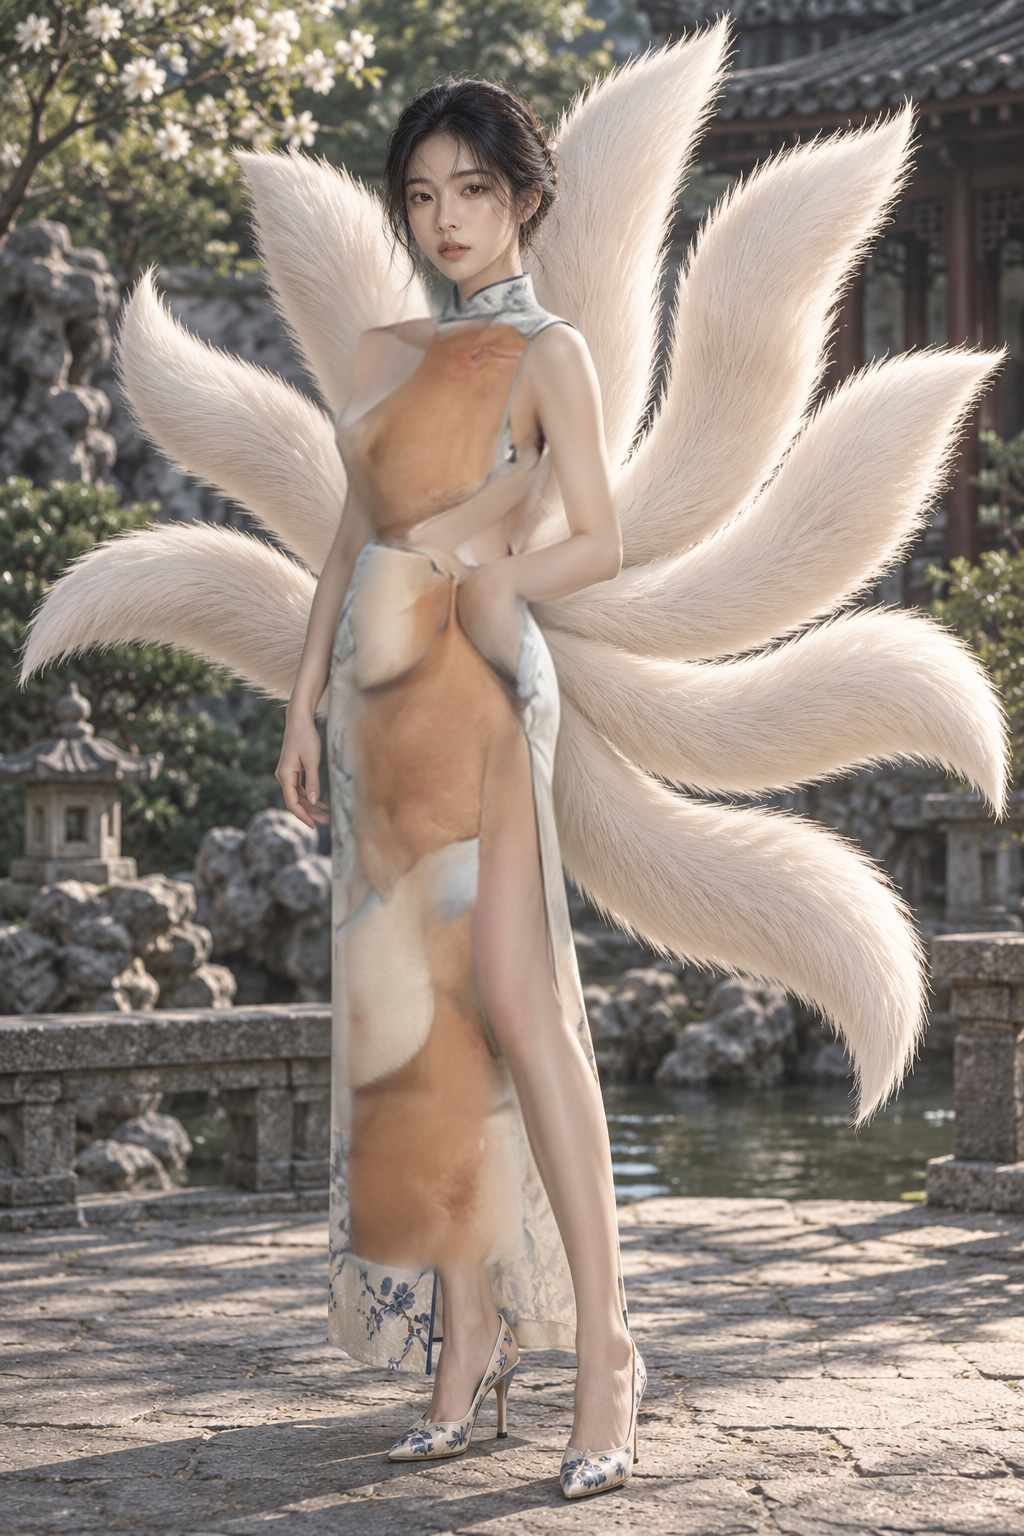
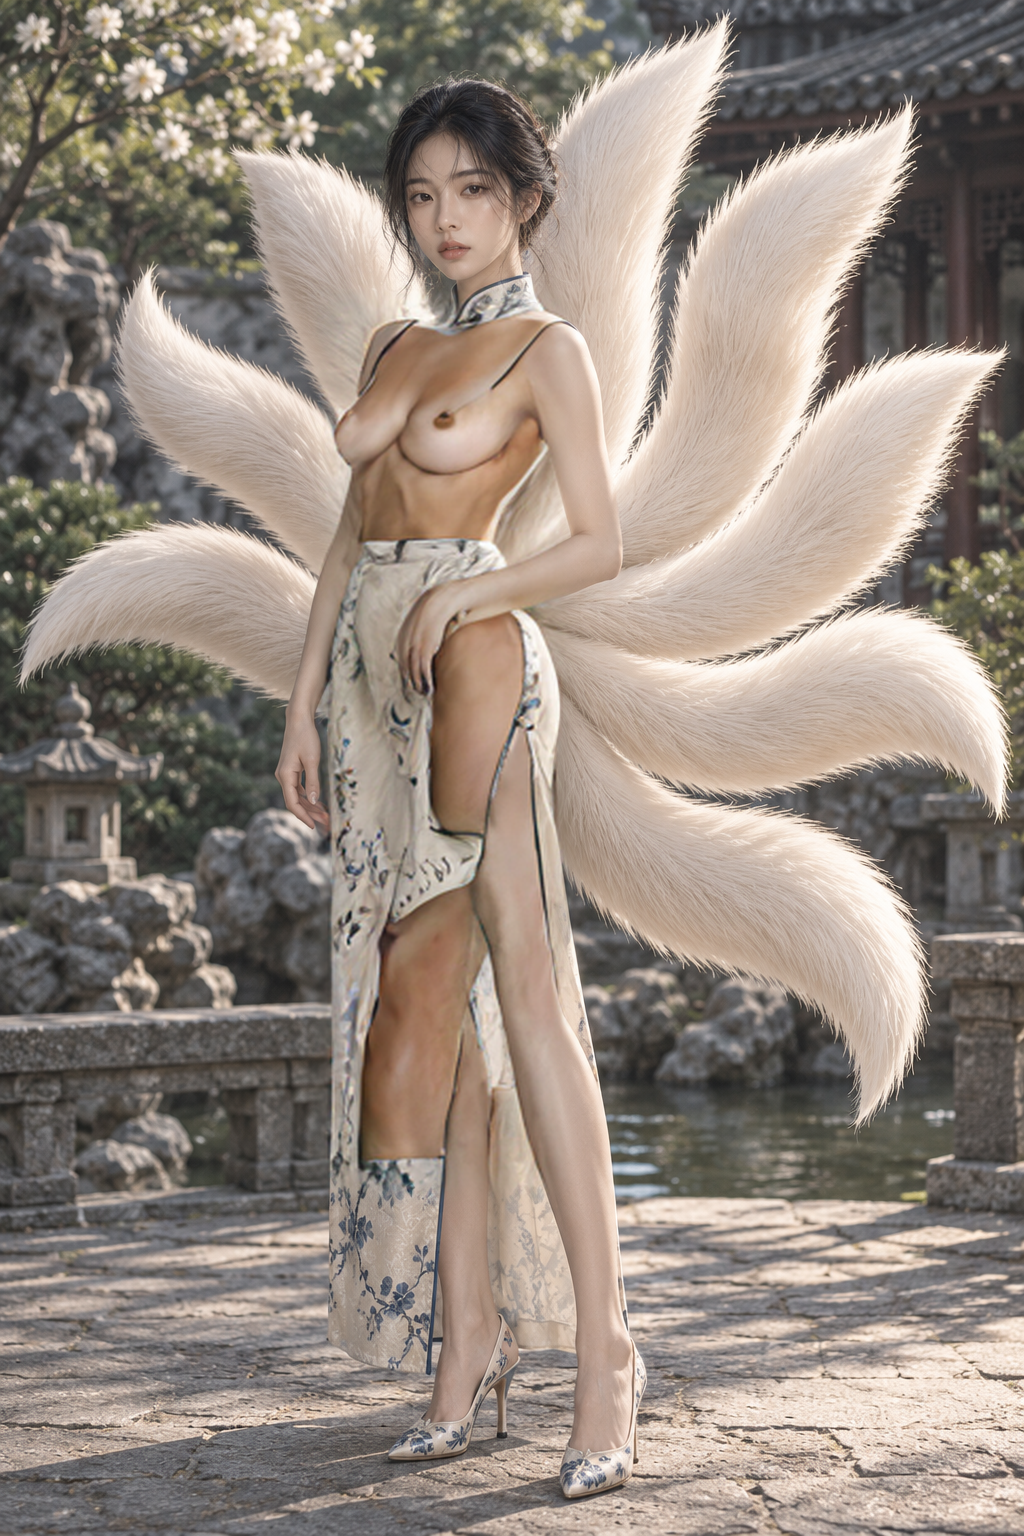
Rerun fox/centaur undress with Fooocus MaskedFill on Beijing.
Raise cloth denoise, neutralize masked pixels before IMC, and ship Codex
rescored stills; Lin torn stays near the gate, others still fail clothes/armor.

Changed region(s): [[0.3125, 0.1875, 0.5625, 0.8438], [0.5312, 0.5938, 0.5625, 0.6562]]

diff --git a/ai-realistic-comic/workflows/comfyui/inpaint_crop.py b/ai-realistic-comic/workflows/comfyui/inpaint_crop.py
@@ -26,6 +26,7 @@ FOOOCUS_HEAD = "fooocus_inpaint_head.pth"
 FOOOCUS_PATCH = "inpaint_v26.fooocus.patch"
 FOOOCUS_LOAD = "INPAINT_LoadFooocusInpaint"
 FOOOCUS_APPLY = "INPAINT_ApplyFooocusInpaint"
+MASKED_FILL = "INPAINT_MaskedFill"
 DIFF_DIFFUSION = "DifferentialDiffusion"
 
 
@@ -113,10 +114,12 @@ def inpaint_crop_graph(
     *,
     fooocus: bool = True,
     differential: bool = True,
+    masked_fill: bool = True,
+    fill_mode: str = "neutral",
     fooocus_head: str = FOOOCUS_HEAD,
     fooocus_patch: str = FOOOCUS_PATCH,
 ) -> dict:
-    """API graph: 1024 crop + IMC (+ Fooocus patch + DifferentialDiffusion)."""
+    """API graph: 1024 crop + MaskedFill + IMC (+ Fooocus + DifferentialDiffusion)."""
     graph: dict = {
         "3": {"class_type": "CheckpointLoaderSimple", "inputs": {"ckpt_name": ckpt}},
         "4": {"class_type": "CLIPTextEncode", "inputs": {"text": positive, "clip": ["3", 1]}},
@@ -124,35 +127,47 @@ def inpaint_crop_graph(
         "1": {"class_type": "LoadImage", "inputs": {"image": crop_name}},
         "2": {"class_type": "LoadImage", "inputs": {"image": mask_name}},
         "50": {"class_type": "ImageToMask", "inputs": {"image": ["2", 0], "channel": "red"}},
-        "40": {
-            "class_type": INPAINT_NODE,
-            "inputs": {
-                "positive": ["4", 0],
-                "negative": ["5", 0],
-                "vae": ["3", 2],
-                "pixels": ["1", 0],
-                "mask": ["50", 0],
-                "noise_mask": True,
-            },
-        },
-        "15": {
-            "class_type": "KSampler",
-            "inputs": {
-                "model": ["3", 0],
-                "seed": seed,
-                "steps": INPAINT_STEPS,
-                "cfg": INPAINT_CFG,
-                "sampler_name": "dpmpp_2m",
-                "scheduler": "karras",
-                "positive": ["40", 0],
-                "negative": ["40", 1],
-                "latent_image": ["40", 2],
-                "denoise": denoise,
-            },
-        },
-        "16": {"class_type": "VAEDecode", "inputs": {"samples": ["15", 0], "vae": ["3", 2]}},
-        "22": {"class_type": "SaveImage", "inputs": {"images": ["16", 0], "filename_prefix": prefix}},
     }
+    pixels: list = ["1", 0]
+    if masked_fill:
+        graph["51"] = {
+            "class_type": MASKED_FILL,
+            "inputs": {
+                "image": ["1", 0],
+                "mask": ["50", 0],
+                "fill": fill_mode,
+                "falloff": 0,
+            },
+        }
+        pixels = ["51", 0]
+    graph["40"] = {
+        "class_type": INPAINT_NODE,
+        "inputs": {
+            "positive": ["4", 0],
+            "negative": ["5", 0],
+            "vae": ["3", 2],
+            "pixels": pixels,
+            "mask": ["50", 0],
+            "noise_mask": True,
+        },
+    }
+    graph["15"] = {
+        "class_type": "KSampler",
+        "inputs": {
+            "model": ["3", 0],
+            "seed": seed,
+            "steps": INPAINT_STEPS,
+            "cfg": INPAINT_CFG,
+            "sampler_name": "dpmpp_2m",
+            "scheduler": "karras",
+            "positive": ["40", 0],
+            "negative": ["40", 1],
+            "latent_image": ["40", 2],
+            "denoise": denoise,
+        },
+    }
+    graph["16"] = {"class_type": "VAEDecode", "inputs": {"samples": ["15", 0], "vae": ["3", 2]}}
+    graph["22"] = {"class_type": "SaveImage", "inputs": {"images": ["16", 0], "filename_prefix": prefix}}
     model_src: list = ["3", 0]
     if fooocus:
         graph["70"] = {

diff --git a/ai-realistic-comic/workflows/comfyui/scheme_still_fox_centaur_undress.py b/ai-realistic-comic/workflows/comfyui/scheme_still_fox_centaur_undress.py
@@ -47,10 +47,11 @@ LIN_PLATE = STILL_DIR / "lin-qipao-nine-tail.png"
 ELENA_PLATE = STILL_DIR / "elena-armor-centaur.png"
 
 SAMPLER_SEED = 20261007
-CLOTH_DENOISE = 0.88
-TORN_DENOISE = 0.88
-EDGE_DENOISE = 0.40
-MASK_BLUR = 14
+# Fooocus + MaskedFill can take near-1.0; 0.88 left sheer qipao / intact armor.
+CLOTH_DENOISE = 0.98
+TORN_DENOISE = 0.96
+EDGE_DENOISE = 0.42
+MASK_BLUR = 8
 MAX_CONTENT_FRAC = 0.52
 
 BJ_UUID = "359a49a1c3-4cda10df"
@@ -387,6 +388,8 @@ def instantid_inpaint_graph(
         denoise=denoise,
         fooocus=False,
         differential=False,
+        masked_fill=denoise >= 0.6,
+        fill_mode="neutral",
     )
     graph["60"] = {"class_type": "LoadImage", "inputs": {"image": ref_name}}
     graph["6"] = {
@@ -431,7 +434,10 @@ def instantid_inpaint_graph(
             "inputs": {"model": model_src, "patch": ["70", 0], "latent": ["40", 2]},
         }
         model_src = ["71", 0]
-    if differential:
+    # Soft DifferentialDiffusion fights cloth removal on blurred masks; cloth/armor
+    # passes keep it off unless the caller forces differential=True at low denoise.
+    want_diff = differential if denoise < 0.6 else False
+    if want_diff:
         graph["72"] = {
             "class_type": DIFF_DIFFUSION,
             "inputs": {"model": model_src, "strength": 1.0},
@@ -623,6 +629,10 @@ def run_region(
     head_ref.save(input_dir / ref_name)
     for filename in (prepared["crop_name"], prepared["crop_mask"], ref_name):
         _upload(host, input_dir / filename)
+    # Cloth/armor passes: hard fill + Fooocus, no DifferentialDiffusion (soft masks
+    # were leaving fabric). Edge pass: keep Diff for blend.
+    use_diff = fooocus and region.denoise < 0.6
+    use_fill = region.denoise >= 0.6
     if use_instantid:
         graph = instantid_inpaint_graph(
             models,
@@ -635,7 +645,7 @@ def run_region(
             region.stem,
             region.denoise,
             fooocus=fooocus,
-            differential=fooocus,
+            differential=use_diff,
         )
     else:
         graph = inpaint_crop_graph(
@@ -648,7 +658,9 @@ def run_region(
             prefix=region.stem,
             denoise=region.denoise,
             fooocus=fooocus,
-            differential=fooocus,
+            differential=use_diff,
+            masked_fill=use_fill,
+            fill_mode="neutral",
         )
     (out_dir / f"{region.stem}.api.json").write_text(
         json.dumps(envelope(graph, region.stem, mode, fooocus=fooocus), ensure_ascii=False, indent=2),

diff --git a/ai-realistic-comic/tests/test_fox_centaur_undress.py b/ai-realistic-comic/tests/test_fox_centaur_undress.py
@@ -43,6 +43,8 @@ def test_inpaint_crop_uses_conditioning_not_full_frame_denoise_one():
     assert graph["70"]["class_type"] == crop.FOOOCUS_LOAD
     assert graph["71"]["class_type"] == crop.FOOOCUS_APPLY
     assert graph["72"]["class_type"] == crop.DIFF_DIFFUSION
+    assert graph["51"]["class_type"] == crop.MASKED_FILL
+    assert graph["40"]["inputs"]["pixels"] == ["51", 0]
     assert graph["15"]["inputs"]["model"] == ["72", 0]
     legacy = crop.inpaint_crop_graph(
         "RealVisXL_V5.0_fp16.safetensors",
@@ -54,8 +56,10 @@ def test_inpaint_crop_uses_conditioning_not_full_frame_denoise_one():
         "chest",
         fooocus=False,
         differential=False,
+        masked_fill=False,
     )
     assert "70" not in legacy
+    assert "51" not in legacy
     assert legacy["15"]["inputs"]["model"] == ["3", 0]
 
 
@@ -108,10 +112,11 @@ def test_torn_masks_are_smaller_than_full_nude_unions():
 
 def test_community_region_schedule_is_small_holes_then_edge():
     undress = _load("scheme_still_fox_centaur_undress")
-    assert undress.CLOTH_DENOISE == 0.88
-    assert undress.TORN_DENOISE == 0.88
-    assert undress.EDGE_DENOISE == 0.40
+    assert undress.CLOTH_DENOISE == 0.98
+    assert undress.TORN_DENOISE == 0.96
+    assert undress.EDGE_DENOISE == 0.42
     assert undress.MAX_CONTENT_FRAC == 0.52
+    assert undress.MASK_BLUR <= 10
     assert undress.ELENA_HEAD[0] <= 260
     lin = undress.lin_nude_passes()
     elena = undress.elena_nude_passes()
@@ -184,9 +189,9 @@ def test_fox_centaur_graph_is_crop_inpaint_plus_instantid_on_head_shoulder():
     assert graph["10"]["inputs"]["model"] == ["3", 0]
     assert graph["71"]["inputs"]["model"] == ["10", 0]
     assert graph["71"]["inputs"]["latent"] == ["40", 2]
-    assert graph["15"]["inputs"]["model"] == ["72", 0]
+    assert graph["15"]["inputs"]["model"] == ["71", 0]  # cloth pass: no Diff
+    assert graph["51"]["class_type"] == "INPAINT_MaskedFill"
     assert "INPAINT_ApplyFooocusInpaint" in dumped
-    assert "DifferentialDiffusion" in dumped
     assert "SetLatentNoiseMask" not in dumped
     assert "ReActor" not in dumped
     assert "blue-grey" in undress.ELENA_NUDE_NEG

diff --git a/ai-realistic-comic/library/stills/fox-centaur-embrace/STILL.md b/ai-realistic-comic/library/stills/fox-centaur-embrace/STILL.md
@@ -37,19 +37,19 @@
 
 现行日程：
 
-- 小洞 / 椭圆破洞；衣服 denoise **0.88**；收边 **0.40**；`MAX_CONTENT_FRAC=0.52`
-- 默认 Fooocus（`fooocus_inpaint_head.pth` + `inpaint_v26.fooocus.patch`）打在 RealVisXL 上；`--no-fooocus` 回退旧 IMC
-- InstantID 头肩裁已接，但实跑去衣默认 `--no-instantid`（叠 InstantID 易薄纱或双人）
-- 打分对照仍是板心 `ref-face.png`；收留线均分 ≥ 9 且硬门空
-- Codex imagegen 拒绝对成衣板做露点/破甲编辑（safety）；继续只走北京 Comfy
+- 小洞 / 椭圆破洞；衣服 denoise **0.98**；破衣 **0.96**；收边 **0.42**；`MASK_BLUR=8`；`MAX_CONTENT_FRAC=0.52`
+- 默认 Fooocus + `INPAINT_MaskedFill(neutral)`；衣服 pass 关 DifferentialDiffusion（软边会留布）
+- InstantID 头肩裁已接，实跑去衣默认 `--no-instantid`
+- 打分对照板心 `ref-face.png`；收留线均分 ≥ 9 且硬门空
+- Codex imagegen 拒绝对成衣板做露点/破甲编辑；只走北京 Comfy
 
 不要丢进 `scheme_b_from_plate.py`。北京 B `359a49a1c3-4cda10df`。F34 / G09 不开。不用 ReActor。
 
 | 人 | 成衣 | 变体 | 均分 | 硬门 | 说明 |
 | --- | --- | --- | --- | --- | --- |
-| 林 | `lin-qipao-nine-tail.png` | `lin-qipao-nine-tail-torn.png` | **8.875** | 空 | 最接近过门；wardrobe 9，anatomy 8 |
-| 林 | 同上 | `lin-qipao-nine-tail-nude.png` | 5.875–7 | `clothes_remain` | RealVisXL 难彻底褪旗袍 |
-| 伊莲 | `elena-armor-centaur.png` | `elena-armor-centaur-nude.png` | **8.125** | `armor_remain` | 胸甲主体已去；颈/臂/腰甲残留 |
-| 伊莲 | 同上 | `elena-armor-centaur-torn.png` | 7.25–7.5 | `intact_clothes` | 破甲不够、露肤不足 |
+| 林 | `lin-qipao-nine-tail.png` | `lin-qipao-nine-tail-torn.png` | **8.75** | 空 | 近门；wardrobe 8，anatomy 9（保留此前最佳破衣） |
+| 林 | 同上 | `lin-qipao-nine-tail-nude.png` | 6.125 | `clothes_remain` | Fooocus 可开胸窗，裙/残布与 smear 仍过门 |
+| 伊莲 | `elena-armor-centaur.png` | `elena-armor-centaur-nude.png` | 7.375 | `armor_remain` | 躯干可露肤；护臂/腰甲与 smear 未净 |
+| 伊莲 | 同上 | `elena-armor-centaur-torn.png` | 7.75 | `intact_clothes` | 破甲仍偏保守 |
 
-未过收留线（均分 ≥ 9 且硬门空）。林破衣差 anatomy 1 分；伊莲去衣差残甲。
+未过收留线。下一步优先 GroundingDINO 语义蒙版抠甲片轮廓，再叠 Fooocus。

diff --git a/ai-realistic-comic/library/stills/fox-centaur-embrace/COMPARE.md b/ai-realistic-comic/library/stills/fox-centaur-embrace/COMPARE.md
@@ -13,16 +13,16 @@
 
 都没过收留线（均分 ≥ 9 且硬门空）。Codex imagegen 拒绝对成衣板做露点编辑。
 
-### 2026-10-07 栈升级（未重跑出片）
+### 2026-10-07 Fooocus 重跑（Codex）
 
-根因对照社区：RealVisXL 无 inpaint 训练 → 旗袍花纹/胸甲高光当结构保留；几何蒙版漏颈环/护臂。北京 B 已装：
+| 人 | 变体 | 均分 | 硬门 | 相对装栈前 |
+| --- | ---: | ---: | --- | --- |
+| 林 | torn | **8.75** | 空 | 近门（曾 8.875）；本轮保留最佳破衣 |
+| 林 | nude | 6.125 | `clothes_remain` | 胸口可开窗，裙与 smear 仍失败 |
+| 伊莲 | nude | 7.375 | `armor_remain` | 躯干能露肤；残甲/纹理 smear |
+| 伊莲 | torn | 7.75 | `intact_clothes` | 略好于装栈前，仍不够碎 |
 
-- Acly Fooocus inpaint（`INPAINT_ApplyFooocusInpaint`）+ `inpaint_v26.fooocus.patch`
-- 核心 `DifferentialDiffusion`
-- storyicon GroundingDINO + SAM（语义衣物蒙版）
-- Flux Fill gated，跳过
-
-工作流已默认接线；下一轮开机用 `--mode both --no-instantid` 重跑四张再打分。
+栈：MaskedFill(neutral) + Fooocus v26 + denoise 0.98（衣服 pass 无 DifferentialDiffusion）。GroundingDINO 已装但本轮几何蒙版为主；Flux Fill 仍 gated。
 
 ## 林晚棠
 
